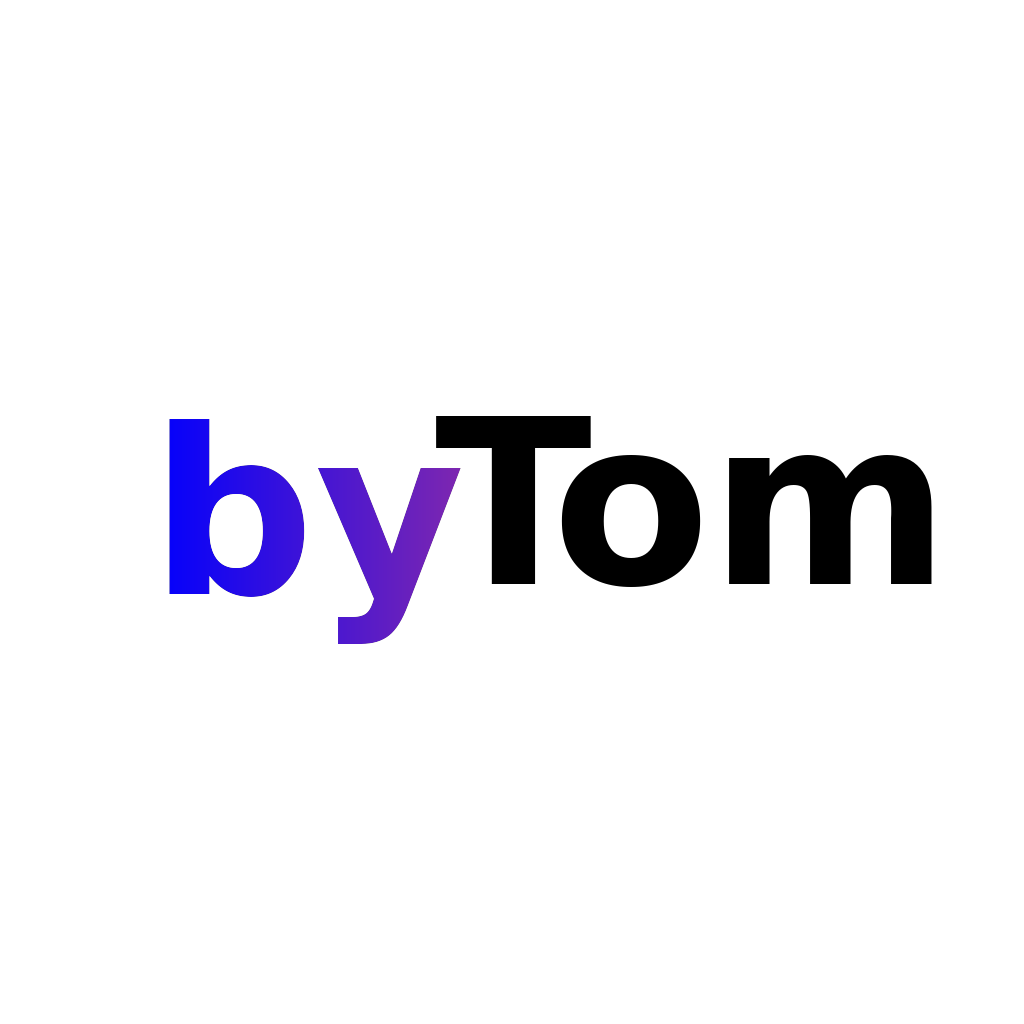
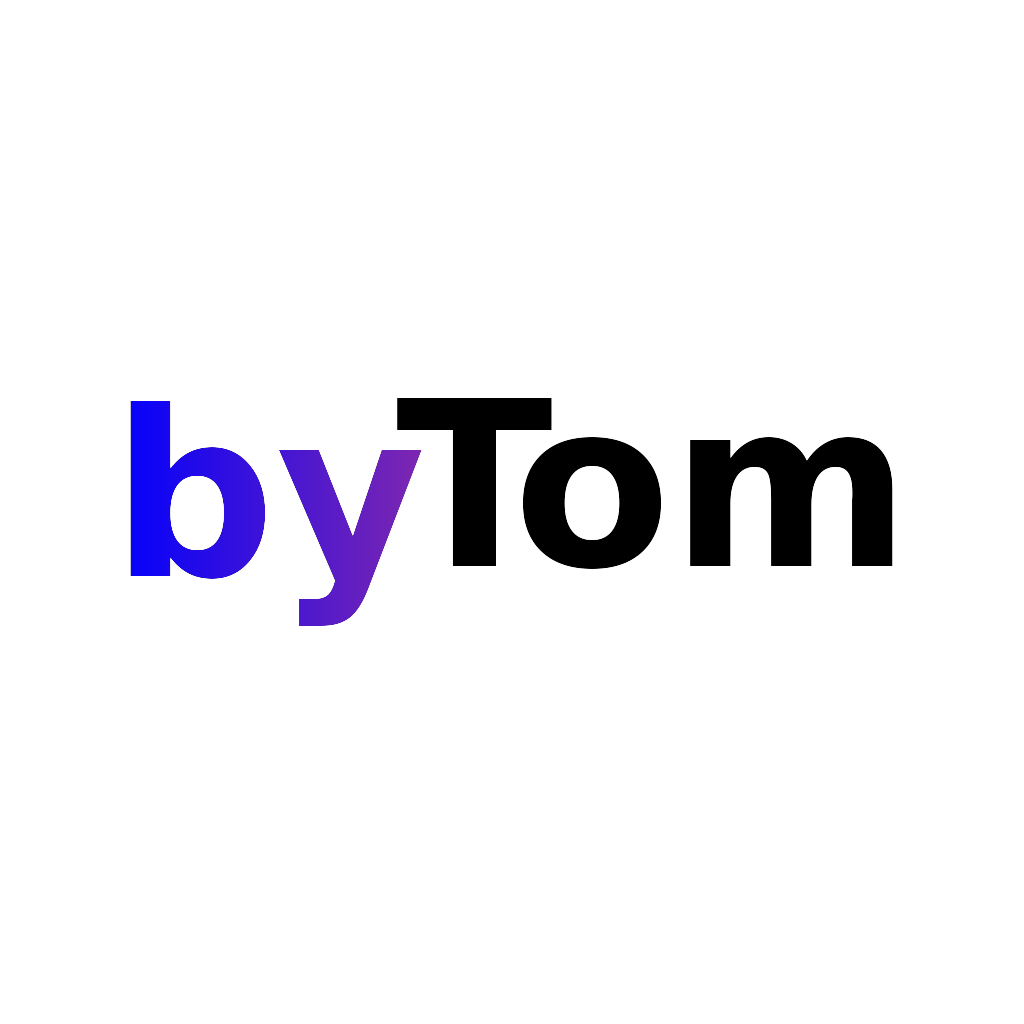
1

Changed region(s): [[0.125, 0.375, 0.9375, 0.625]]

diff --git a/index.html b/index.html
@@ -8,13 +8,15 @@
     <link rel="icon" type="image/x-icon" href="images/byTom_favicon.png">
     <link rel="stylesheet" href="styles.css">
     <link href="https://fonts.googleapis.com/css2?family=Inter:wght@300;400;500;600;700&display=swap" rel="stylesheet">
+    <link rel="stylesheet" type='text/css' href="https://cdn.jsdelivr.net/gh/devicons/devicon@latest/devicon.min.css" />
+          
 
 </head>
 <body>
     <!---------------------------- HEADER --------------------------------->
     <header>
         <nav class="menu">
-            <img src="images/byTom.png" alt="Logo" class="logo">
+            <img src="images/byTom.png" alt="Logo" class="logo-menu">
             <ul>
                 <li><a href="#a-propos">À propos</a></li>
                 <li><a href="#projets">Projets</a></li>
@@ -24,12 +26,95 @@
     </header>
     <!---------------------------- MAIN --------------------------------->
     <main>
-        <h1>Portfolio Tom Ochietti</h1>
+        <div>
+            <img src="images/byTom.png" alt="Logo" class="logo">
+            <h1>Développeur Web Full Stack</h1>
+        </div>
         <!-- A PROPOS -->
         <section class="about" id="a-propos">
             <h2>À propos</h2>
             <article>
-                <p>Bonjour! Je m'appelle Tom Ochietti, un développeur passionné spécialisé dans la création de sites web modernes et réactifs. Avec une expertise en HTML, CSS, JavaScript et divers frameworks, je m'efforce de concevoir des expériences utilisateur exceptionnelles. Explorez mon portfolio pour découvrir mes projets récents et n'hésitez pas à me contacter pour toute collaboration ou opportunité professionnelle.</p>
+                <p>
+                    Développeur web junior, j'aime traduire une idée en code pour réaliser des plateformes simples, 
+                    propres, modernes et agréables à utiliser. <br><br>
+                    Avec une maîtrise de différents langages,
+                    je me donne les moyens de relever des défis et concevoir chaque jour 
+                    des projets de plus en plus ambitieux. <br><br>
+                </p>
+                <!-- TECH STACKS -->
+                <section class="stacks">
+                    <div class="stack-grid">
+                        <div class="stack-item">              
+                            <i class="devicon-html5-plain colored"></i>
+                            <p>HTML5</p>
+                        </div>
+
+                        <div class="stack-item">
+                            <img src="images/twig.png" alt="Twig">
+                            <p>TWIG</p>
+                        </div>
+
+                        <div class="stack-item">
+                            <i class="devicon-css3-plain colored"></i>
+                            <p>CSS3</p>
+                        </div>
+                    
+                        <div class="stack-item">
+                            <i class="devicon-sass-original colored"></i>
+                            <p>SCSS</p>
+                        </div>
+                    
+                        <div class="stack-item">
+                            <i class="devicon-javascript-plain colored"></i>
+                            <p>JavaScript</p>
+                        </div>
+                    
+                        <div class="stack-item">
+                            <i class="devicon-php-plain colored"></i>
+                            <p>PHP</p>
+                        </div>
+                    
+                        <div class="stack-item">
+                            <i class="devicon-symfony-original colored"></i>
+                            <p>Symfony</p>
+                        </div>
+                    
+                        <div class="stack-item">
+                            <i class="devicon-mysql-plain colored"></i>
+                            <p>MySQL</p>
+                        </div>
+
+                        <div class="stack-item">
+                            <i class="devicon-git-plain colored"></i>
+                            <p>Git</p>
+                        </div>
+
+                        <div class="stack-item">
+                            <i class="devicon-github-plain colored"></i>
+                            <p>GitHub</p>
+                        </div>
+            
+                        <div class="stack-item">
+                            <i class="devicon-visualstudio-plain colored"></i>
+                            <p>VS Code</p>
+                        </div>
+                   
+                        <div class="stack-item">
+                            <img src="https://cdn.jsdelivr.net/gh/devicons/devicon@latest/icons/phpstorm/phpstorm-original.svg" />
+                            <p>PHPStorm</p>
+                        </div>
+
+                        <div class="stack-item">
+                            <i class="devicon-wordpress-plain colored"></i>
+                            <p>WordPress</p>
+                        </div>
+
+                        <div class="stack-item">
+                            <img src="https://img.icons8.com/?size=100&id=cQfKnWABsKk9&format=png&color=000000" alt="Wix">
+                            <p>Wix</p>
+                        </div>
+                    </div>
+                </section>
             </article>
         </section>
         <!-- PROJETS -->

diff --git a/styles.css b/styles.css
@@ -7,8 +7,9 @@
 :root {
     --bg1: #F3F3F5;
     --bg2: #000000;
-    --color1: #000000;
+    --color1: #374252;
     --color2: #F3F3F5;
+    --color3: #2c57e7;
     --primary_police: "Inter", sans-serif;
 }
 
@@ -31,9 +32,28 @@ main {
     padding: 0 1rem;
 }
 
+h1 {
+    margin-top: -5rem;
+    text-align: center;
+    font-size: 3rem;
+    background: linear-gradient(to right, #2c57e7, #de58e2);
+    -webkit-background-clip: text;
+    -webkit-text-fill-color: transparent;
+}
+
+h2 {
+    font-size: 2rem;
+    margin-bottom: 1rem;
+    text-align: center;
+    color: var(--color1);
+}
+
 a {
     text-decoration: none;
     color: inherit;
+    &:hover {
+        color: var(--color3);
+    }
 }
 
 ul {
@@ -48,7 +68,6 @@ ul {
 
 
 
-
 /****************************************/
 /****************************************/
 /***************** STYLES ***************/
@@ -58,6 +77,27 @@ ul {
 /****************************************/
 /***************** ABOUT ****************/
 /****************************************/
+
+.logo {
+    width: 25%;
+    display: block;
+    margin: 0 auto;
+}
+
+.about {
+    padding-top: 4rem;
+    p {
+        max-width: 800px;
+        margin: 0 auto;
+        padding: 2rem;
+        padding-bottom: 4rem;
+        padding-top: 4rem;
+        line-height: 1.5rem;
+        font-size: 1.3rem;
+        color: var(--color1);
+        font-weight: 500;
+    }
+}
 
 
 /****************************************/
@@ -79,6 +119,35 @@ ul {
     margin-right: calc(50% - 50vw);
 }
 
+.stack-grid {
+    display: grid;
+    grid-template-columns: repeat(auto-fit, minmax(120px, 1fr));
+    gap: 2rem;
+    max-width: 900px;
+    margin: 0 auto;
+}
+
+.stack-item {
+    display: flex;
+    flex-direction: column;
+    align-items: center;
+    text-align: center;
+}
+
+.stack-item i,
+.stack-item img {
+    font-size: 4rem;
+    width: 60px;
+    height: 60px;
+    object-fit: contain;
+}
+
+.stack-item p {
+    margin-top: 0.5rem;
+    font-weight: 600;
+    color: var(--color1);
+}
+
 /****************************************/
 /**************** CONTACT ***************/
 /****************************************/
@@ -93,14 +162,54 @@ ul {
 
 /***************** HEADER *****************/
 
-.logo {
-    width: 10%;
+header {
+    background-color: #ebebeb;
+}
+
+.logo-menu {
+    width: 7%;
+    position: absolute;
+    margin: 0;
+    left: 30rem;
 }
 
 .menu {
-    padding: 1rem;
+    display: flex;
+    position: relative;
+    align-items: center;
+    justify-content: center;
+    padding: 1.5rem;
     box-shadow: 0 2px 4px rgba(0, 0, 0, 0.1);
+    color: var(--color1);
 }
+
+.menu ul {
+        display: flex;
+        gap: 5rem;
+        margin: 0;
+        padding: 0;
+        font-weight: bold;
+}
+.menu ul li {
+    position: relative;
+}
+
+.menu ul li::after {
+    content: "";
+    position: absolute;
+    left: 50%;
+    transform: translateX(-50%);
+    bottom: -7px;
+    width: 0;
+    height: 2px;
+    background: var(--color3);
+    transition: width 0.3s ease;
+}
+
+.menu ul li:hover::after {
+    width: 100%;
+}
+
 
 /***************** FOOTER *****************/
 
